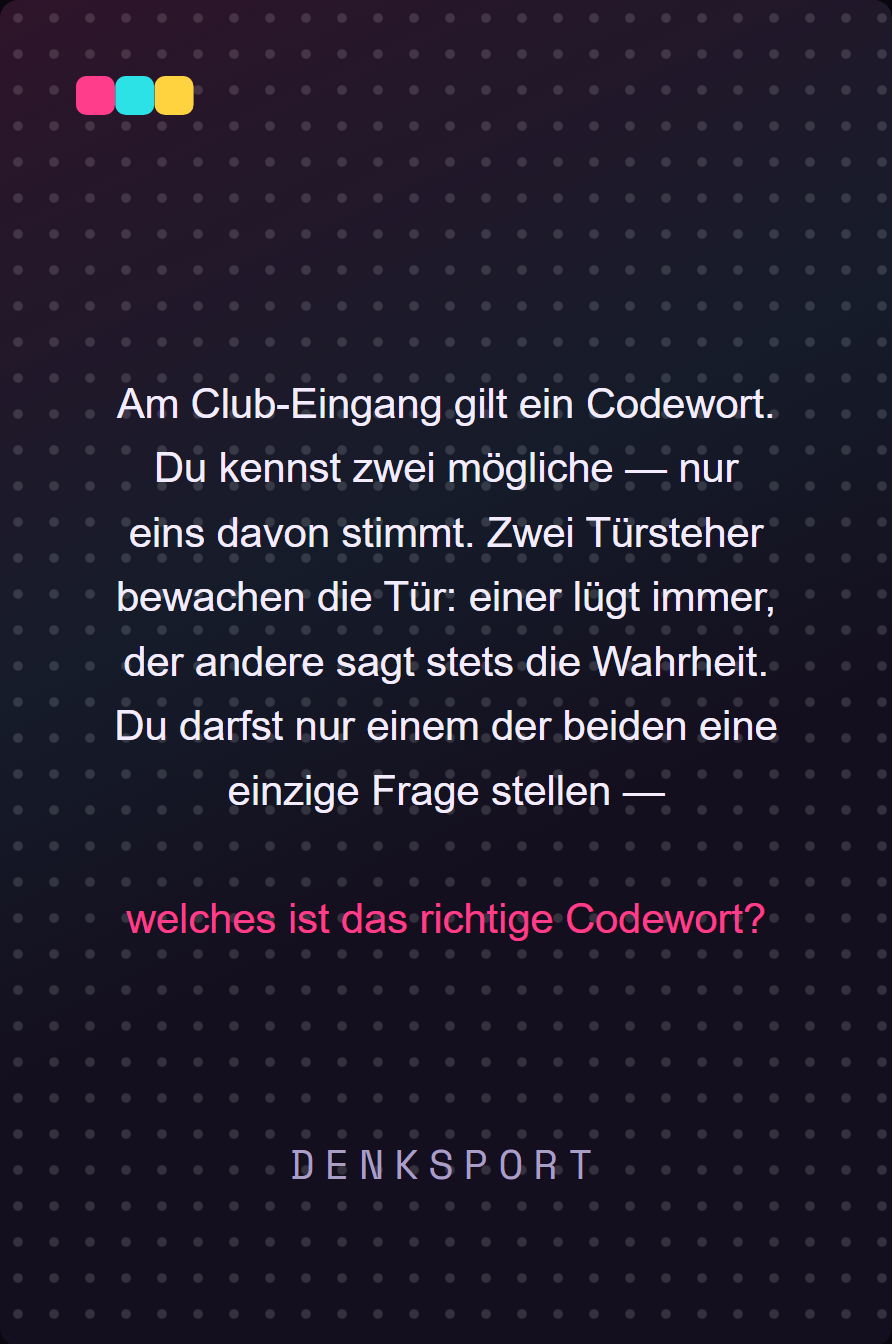
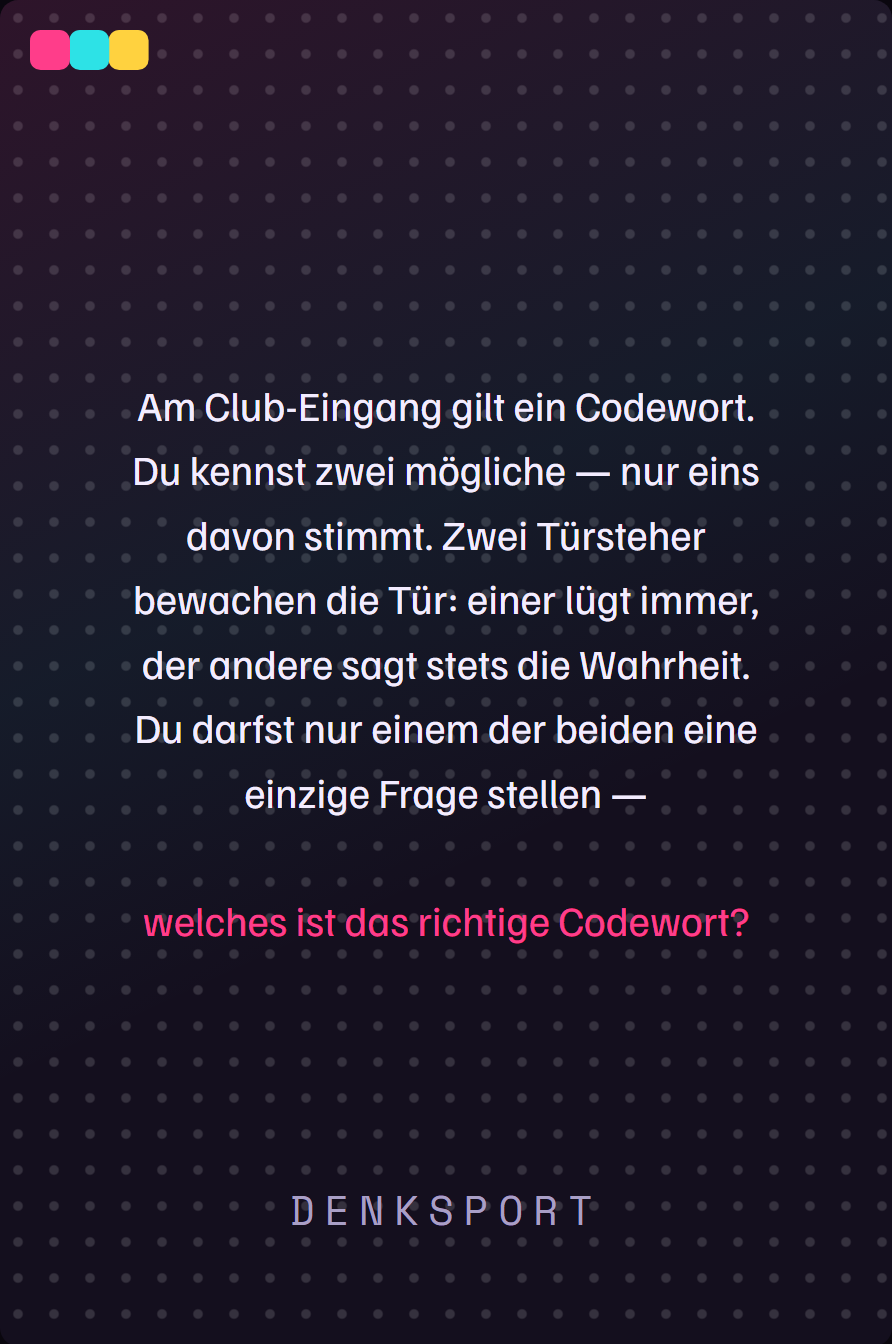
Add files via upload

diff --git a/index.html b/index.html
@@ -61,10 +61,16 @@
 </svg>
 
 <!-- HERO -->
-<section class="hero" id="start">
+<!-- Aktuell im Festival-Modus: zeigt "Currently at: Moyn" statt der generischen Eyebrow.
+     Zum Zurückschalten auf die generische Variante einfach die Klasse "hero-festival-mode" hier entfernen. -->
+<section class="hero hero-festival-mode" id="start">
   <div class="wrap">
     <div class="hero-inner">
-      <span class="eyebrow">Festival · Messe · Events</span>
+      <span class="eyebrow hero-eyebrow">Festival · Messe · Events</span>
+      <div class="hero-live" id="heroLive">
+        <span class="hero-live-label">Currently at:</span>
+        <img class="hero-live-logo" src="resources/images/moyn-logo.svg" alt="Moyn Festival" onerror="this.closest('.hero-live').remove()">
+      </div>
       <h1>Spiele, die euer Event zum <span class="hl">Erlebnis</span> machen.</h1>
       <p class="lead">Wir entwickeln interaktive, spielbasierte Erlebnisse — maßgeschneidert auf euren Anlass und euer Publikum.</p>
       <div class="cta-row">
@@ -182,9 +188,9 @@
         <div class="ref-body">
           <div class="ref-top"><span class="ref-tag">Event</span></div>
           <h3>Gaming auf dem Dancefloor <span class="chev" aria-hidden="true">+</span></h3>
-          <p>Aus unserem eigenen Spiel „Bounzy Ballz" wurde bei der Karamba in der Bside ein Tanzmatten-Erlebnis, live per Beamer auf den Dancefloor projiziert.</p>
+          <p>Aus unserem eigenen Spiel „Bounzy Ballz" wurde bei der Karamba in der B-Side ein Tanzmatten-Erlebnis, live per Beamer auf den Dancefloor projiziert.</p>
           <div class="ref-panel" id="ref-panel-3" hidden>
-            <p>Bounzy Ballz ist ein von uns entwickeltes Arcade-Pinball-Spiel mit Neon-Optik, bei dem es um Highscores und große Combos geht – eigentlich gedacht zum Spielen am Bildschirm. Für die Karamba in der Bside haben wir daraus etwas ganz Neues gemacht: Statt Maus oder Touch steuert eine Tanzmatte das Spiel, projiziert per Beamer mitten auf den Dancefloor. Techno-Sound trifft auf ein Spielkonzept, das die Gäste körperlich in Bewegung bringt – wer punkten will, muss tanzen. Über mehrere Karamba-Veranstaltungen hinweg haben wir das Setup immer weiter verfeinert und passgenau auf das jeweilige Event zugeschnitten. Genau so gehen wir auch bei euch vor: ein bestehendes Konzept oder eine ganz neue Idee, angepasst an euren Ort, euer Publikum und den Vibe eures Events.</p>
+            <p>Bounzy Ballz ist ein von uns entwickeltes Arcade-Pinball-Spiel mit Neon-Optik, bei dem es um Highscores und große Combos geht – eigentlich gedacht zum Spielen am Bildschirm. Für die Karamba in der B-Side haben wir daraus etwas ganz Neues gemacht: Statt Maus oder Touch steuert eine Tanzmatte das Spiel, projiziert per Beamer mitten auf den Dancefloor. Techno-Sound trifft auf ein Spielkonzept, das die Gäste körperlich in Bewegung bringt – wer punkten will, muss tanzen. Über mehrere Karamba-Veranstaltungen hinweg haben wir das Setup immer weiter verfeinert und passgenau auf das jeweilige Event zugeschnitten. Genau so gehen wir auch bei euch vor: ein bestehendes Konzept oder eine ganz neue Idee, angepasst an euren Ort, euer Publikum und den Vibe eures Events.</p>
             <div class="ref-links">
               <a href="https://b-side.ms/events/31de-karamba-strassenfest-aftershow" target="_blank" rel="noopener">b-side.ms/events/31de-karamba-strassenfest-aftershow ↗</a>
               <a href="https://btopp.itch.io/bounzyballz" target="_blank" rel="noopener">btopp.itch.io/bounzyballz ↗</a>
@@ -222,10 +228,12 @@
               <svg viewBox="0 0 24 24" fill="none" stroke="currentColor" stroke-width="1.6" stroke-linecap="round" stroke-linejoin="round" aria-hidden="true"><circle cx="12" cy="8" r="4"/><path d="M4 21c0-4 3.5-7 8-7s8 3 8 7"/></svg>
               <span class="person-photo-label">Foto folgt</span>
             </div>
-            <div class="person-overlay"><p class="person-info">Kurzinfo zu Marcel folgt hier.</p></div>
+            <div class="person-overlay"><p class="person-info">Mit den Gedanken tief in einer Story oder einem Konzept, hat aber immer das richtige Auge für Grafiken und Designs.</p></div>
           </div>
+          <!-- Mail & Portfolio temporär ausgeblendet, bis echte Infos vorliegen:
           <div class="contact-line">✉ <a href="mailto:marcel@gamesolutions.example">marcel@gamesolutions.example</a></div>
           <div class="contact-line">🔗 <span class="contact-placeholder">Portfolio folgt</span></div>
+          -->
         </div>
       </div>
       <div class="player reveal" role="button" tabindex="0" aria-expanded="false" aria-controls="c-niklas">
@@ -244,7 +252,7 @@
               <svg viewBox="0 0 24 24" fill="none" stroke="currentColor" stroke-width="1.6" stroke-linecap="round" stroke-linejoin="round" aria-hidden="true"><circle cx="12" cy="8" r="4"/><path d="M4 21c0-4 3.5-7 8-7s8 3 8 7"/></svg>
               <span class="person-photo-label">Foto folgt</span>
             </div>
-            <div class="person-overlay"><p class="person-info">Kurzinfo zu Niklas folgt hier.</p></div>
+            <div class="person-overlay"><p class="person-info">Dirigiert die Technik aus dem Homeoffice – Mate in der einen, Maus in der anderen Hand.</p></div>
           </div>
           <div class="contact-line">✉ <a href="mailto:niklasbachmann.code@gmail.com">niklasbachmann.code@gmail.com</a></div>
           <div class="contact-line">🔗 <a href="https://btopp.itch.io/" target="_blank" rel="noopener">btopp.itch.io</a></div>
@@ -266,10 +274,12 @@
               <svg viewBox="0 0 24 24" fill="none" stroke="currentColor" stroke-width="1.6" stroke-linecap="round" stroke-linejoin="round" aria-hidden="true"><circle cx="12" cy="8" r="4"/><path d="M4 21c0-4 3.5-7 8-7s8 3 8 7"/></svg>
               <span class="person-photo-label">Foto folgt</span>
             </div>
-            <div class="person-overlay"><p class="person-info">Kurzinfo zu Vincent folgt hier.</p></div>
+            <div class="person-overlay"><p class="person-info">Für euch vor Ort auf dem Moyn Festival unterwegs – schaut vorbei, er hat ein kleines Spiel für euch dabei!</p></div>
           </div>
+          <!-- Mail & Portfolio temporär ausgeblendet, bis echte Infos vorliegen:
           <div class="contact-line">✉ <a href="mailto:vincent@gamesolutions.example">vincent@gamesolutions.example</a></div>
           <div class="contact-line">🔗 <span class="contact-placeholder">Portfolio folgt</span></div>
+          -->
         </div>
       </div>
     </div>
@@ -294,7 +304,7 @@
 <footer>
   <div class="wrap foot">
     <span>© 2026 Gamesolutions</span>
-    <span class="names">Bachmann · Maier · Halstrick · v.1.1</span>
+    <span class="names">Bachmann · Maier · Halstrick · v.1.2</span>
   </div>
 </footer>
 

diff --git a/styles.css b/styles.css
@@ -34,6 +34,29 @@ a{color:inherit;text-decoration:none}
   color:var(--muted);
 }
 
+.hero-festival-mode .hero-eyebrow{display:none}
+.hero:not(.hero-festival-mode) .hero-live{display:none}
+
+.hero-live{
+  display:inline-flex;
+  align-items:center;
+  gap:9px;
+  margin-top:16px;
+  padding:6px 12px;
+  background:rgba(255,255,255,.05);
+  border:1px solid var(--line);
+  border-radius:999px;
+}
+.hero-live-label{
+  font-family:"Space Mono",monospace;
+  font-size:11px;
+  letter-spacing:.12em;
+  text-transform:uppercase;
+  color:var(--muted);
+  white-space:nowrap;
+}
+.hero-live-logo{height:18px;width:auto;display:block}
+
 /* ---------- Header ---------- */
 header{
   position:sticky;top:0;z-index:50;
@@ -80,6 +103,7 @@ header{
 .menu:hover .menu-panel,
 .menu:focus-within .menu-panel,
 .menu.open .menu-panel{opacity:1;visibility:visible;transform:translateY(8px)}
+.menu.force-closed .menu-panel{opacity:0!important;visibility:hidden!important;transform:translateY(-6px)!important}
 .menu-panel a{padding:11px 14px;border-radius:9px;color:var(--muted);font-size:15px;transition:background .15s,color .15s}
 .menu-panel a:hover,.menu-panel a:focus-visible{background:rgba(255,255,255,.06);color:var(--cloud)}
 .menu-panel a:focus-visible{outline:2px solid var(--cyan);outline-offset:-2px}
@@ -236,7 +260,7 @@ section.block{padding:144px 0;scroll-margin-top:80px}
 .ref:hover,.ref:focus-visible,.ref.char-hover{transform:translateY(-4px);border-color:var(--rc);box-shadow:0 16px 32px -22px var(--rc)}
 .ref:focus-visible{outline:2px solid var(--rc);outline-offset:4px}
 .ref-media{
-  position:relative;aspect-ratio:16/10;overflow:hidden;
+  position:relative;aspect-ratio:16/9;overflow:hidden;
   background-color:var(--ink);
   background-image:radial-gradient(rgba(255,255,255,.10) 1px,transparent 1.4px);
   background-size:16px 16px;

diff --git a/script.js b/script.js
@@ -79,13 +79,18 @@
   if(!menu || !trigger) return;
   function setOpen(state){
     menu.classList.toggle('open', state);
+    menu.classList.toggle('force-closed', !state);
     trigger.setAttribute('aria-expanded', String(state));
     trigger.setAttribute('aria-label', state ? 'Menü schließen' : 'Menü öffnen');
   }
   trigger.addEventListener('click', function(e){
     e.stopPropagation();
-    setOpen(!menu.classList.contains('open'));
+    var next = !menu.classList.contains('open');
+    setOpen(next);
+    if(!next) trigger.blur();
   });
+  menu.addEventListener('mouseenter', function(){ menu.classList.remove('force-closed'); });
+  menu.addEventListener('mouseleave', function(){ menu.classList.remove('force-closed'); });
   menu.querySelectorAll('.menu-panel a').forEach(function(a){
     a.addEventListener('click', function(){ setOpen(false); });
   });
